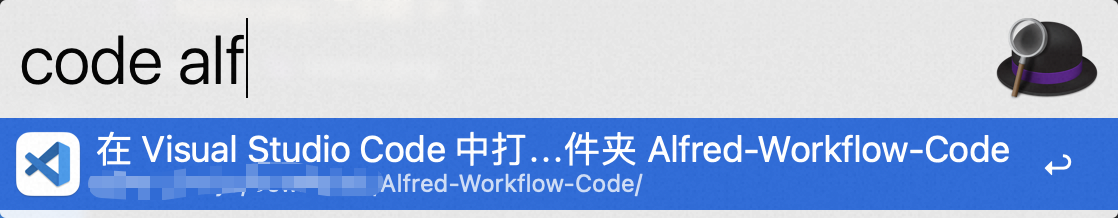
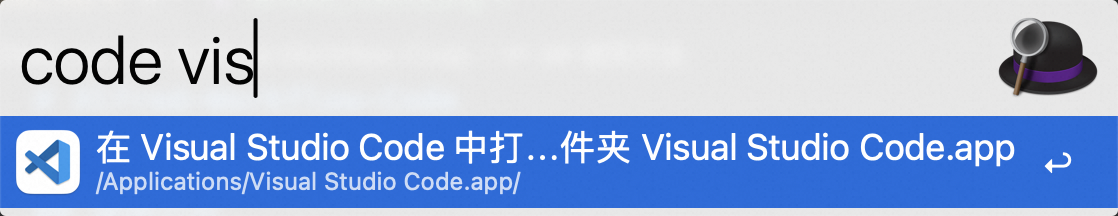
feat: 支持移除历史记录，并迁移历史记录的保存位置。

diff --git a/Workflow/lib/file.js b/Workflow/lib/file.js
@@ -1,7 +1,40 @@
 ObjC.import('Foundation');
 
 /**
+ * 检查是否存在指定路径的文件。
+ * @param {string} path 文件的路径。
+ * @returns {boolean} 文件是否存在。
+ */
+function fileExistsSync(path) {
+  return $.NSFileManager.defaultManager.fileExistsAtPath(path);
+}
+
+/**
+ * 移除指定路径的文件。
+ * @param {string} path 文件的路径。
+ */
+function removeFileSync(path) {
+  $.NSFileManager.defaultManager.removeItemAtPathError(path, undefined);
+}
+
+/**
+ * 移动指定路径的文件。
+ * @param {string} srcPath 源文件的路径。
+ * @param {string} dstPath 目标文件的路径。
+ */
+function moveFileSync(srcPath, dstPath) {
+  var dir = ObjC.unwrap($(dstPath).stringByDeletingLastPathComponent);
+  var fm = $.NSFileManager.defaultManager;
+  if (!fm.fileExistsAtPath(dir)) {
+    fm.createDirectoryAtPathWithIntermediateDirectoriesAttributesError(dir, true, undefined, undefined);
+  }
+  fm.moveItemAtPathToPathError(srcPath, dstPath, undefined);
+}
+
+/**
  * 读取指定路径的文件。
+ * @param {string} path 文件的路径。
+ * @returns {string | undefined} 文件的数据。
  */
 function readFileSync(path) {
   return ObjC.unwrap($.NSString.stringWithContentsOfFileEncodingError(path, $.NSUTF8StringEncoding, undefined));
@@ -9,9 +42,11 @@ function readFileSync(path) {
 
 /**
  * 写入指定路径的文件。
+ * @param {string} path 文件的路径。
+ * @param {string} data 文件的数据。
  */
 function writeFileSync(path, data) {
   ObjC.wrap(data).writeToFileAtomicallyEncodingError(path, true, $.NSUTF8StringEncoding, undefined);
 }
 
-module.exports = { readFileSync, writeFileSync };
+module.exports = { fileExistsSync, removeFileSync, moveFileSync, readFileSync, writeFileSync };

diff --git a/Workflow/filter_vscode.js b/Workflow/filter_vscode.js
@@ -14,6 +14,7 @@ let require;
 
 const { Result } = require('./lib/alfred');
 const { Cache } = require('./lib/cache');
+const { fileExistsSync, moveFileSync } = require('./lib/file');
 const { finder } = require('./lib/finder');
 const { basename, summaryPath } = require('./lib/path');
 
@@ -32,17 +33,29 @@ function run(args) {
         queries.push(arg);
       }
     }
-    new Cache('./history.json').forEach((key) => {
+    const historyPath = $.getenv("alfred_workflow_data") + '/history.json';
+    if (!fileExistsSync(historyPath) && fileExistsSync('./history.json')) {
+      // 从旧路径迁移到新路径。
+      moveFileSync('./history.json', historyPath);
+    }
+    new Cache(historyPath).forEach((key) => {
       if (matchQuery(key, queries)) {
         let suffix = '';
         if (key.endsWith('/')) {
           suffix = '夹';
         }
+        const subtitle = summaryPath(key, 70);
         result.add({
           uid: key,
           title: `在 Visual Studio Code 中打开文件${suffix} ${basename(key)}`,
-          subtitle: summaryPath(key, 70),
+          subtitle,
           arg: key,
+          mods: {
+            alt: {
+              valid: true,
+              subtitle: `移除历史记录 ${subtitle}`,
+            }
+          }
         });
       }
     });

diff --git a/Workflow/lib/cache.js b/Workflow/lib/cache.js
@@ -73,6 +73,8 @@ class Cache {
 
   /**
    * 添加指定键的缓存。
+   * @param {string} key 缓存的键。
+   * @param {any} value 缓存的值。
    */
   add(key, value) {
     let node = this._cacheDict.get(key);
@@ -88,6 +90,20 @@ class Cache {
       this._cacheDict.set(key, node);
     }
     this._nodes.unshift(node);
+  }
+
+  /**
+   * 移除指定键的缓存。
+   * @param {string} key 缓存的键。
+   */
+  remove(key) {
+    let node = this._cacheDict.get(key);
+    if (node) {
+      const idx = this._nodes.indexOf(node);
+      if (idx >= 0) {
+        this._nodes.splice(idx, 1);
+      }
+    }
   }
 
   /**

diff --git a/README.md b/README.md
@@ -12,9 +12,13 @@
 
 ![Alfred workflow code](images/code.png)
 
-还支持保留之前打开的文件/文件夹历史记录，只要在命令后带上参数，就会根据参数筛选历史记录。历史记录默认保留 100 个，也可以根据需要自行配置。
+还支持保留之前打开的文件/文件夹历史记录（存储在 `alfred_workflow_data` 目录下），只要在命令后带上参数，就会根据参数筛选历史记录。历史记录默认保留 100 个，也可以根据需要自行配置。
 
 ![code history](images/history.png)
+
+此时按住 `options` 键可以移除历史记录。
+
+![code remove history](images/remove_history.png)
 
 ## 配置
 